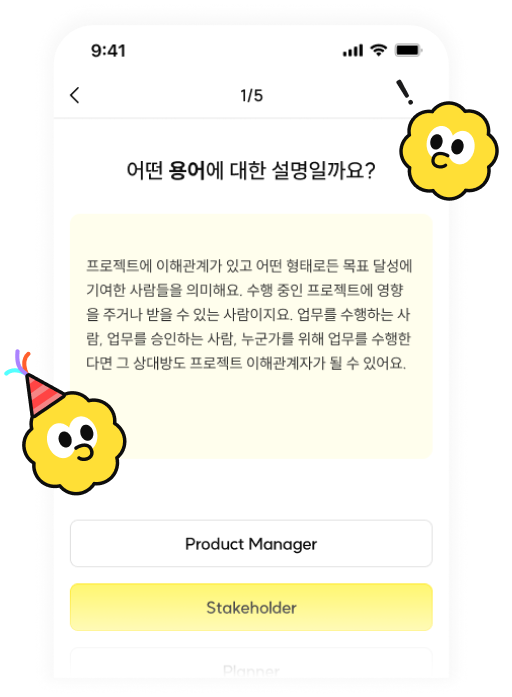
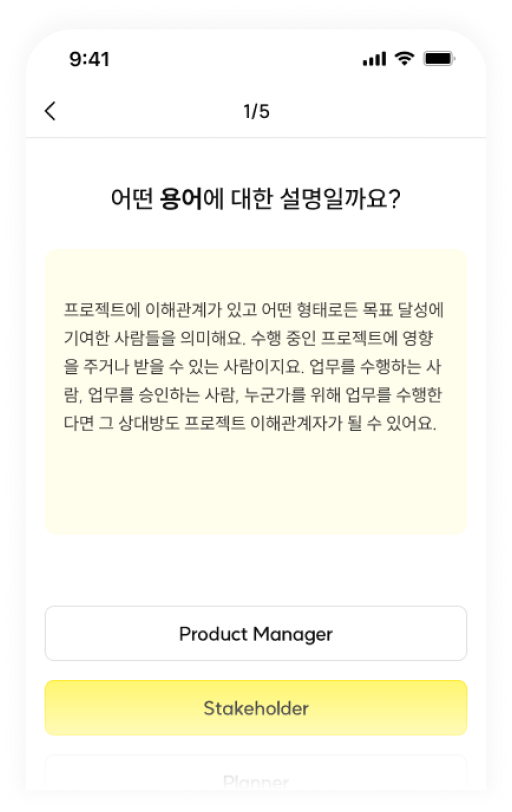
chore: walkthrough 수정

diff --git a/TERMTERM/src/components/terms/WalkthroughCarousel.tsx b/TERMTERM/src/components/terms/WalkthroughCarousel.tsx
@@ -1,4 +1,5 @@
 import { View, ViewProps, Text } from "react-native";
+import styled from "styled-components/native";
 import Animated, {
   Extrapolate,
   interpolate,
@@ -6,7 +7,7 @@ import Animated, {
   useSharedValue,
 } from "react-native-reanimated";
 import Carousel from "react-native-reanimated-carousel";
-import { screenWidth } from "@style/dimensions";
+import { screenWidth, screenHeight } from "@style/dimensions";
 import { WtProps } from "@interfaces/walkthrough";
 import { useThemeStyle } from "@hooks/useThemeStyle";
 import Walkthrough from "./Walkthrough";
@@ -26,17 +27,40 @@ const WalkthroughCarousel = ({ walkthrough, dots, ...props }: Props) => {
   const baseOptions = {
     vertical: false,
     width: screenWidth,
-    height: 650,
+    height: 700,
   } as const;
 
   return (
     <View
       style={{
-        alignItems: "center",
-        marginTop: 30,
+        alignItems: "center",  
       }}
       {...props}
     >
+      {dots && (
+        <View
+          style={{
+            flexDirection: "row",
+            justifyContent: "space-between",
+            width: 50,
+            marginTop: 30,
+            alignSelf: "center",
+          }}
+        >
+          {walkthrough.map((_, index) => {
+            return (
+              <PaginationItem
+                backgroundColor={COLOR.THEME.primary[130]}
+                animValue={progressValue}
+                index={index}
+                key={index}
+                isRotate={false}
+                length={walkthrough.length}
+              />
+            );
+          })}
+        </View>
+      )}
       <Carousel
         {...baseOptions}
         style={{
@@ -56,29 +80,6 @@ const WalkthroughCarousel = ({ walkthrough, dots, ...props }: Props) => {
         data={walkthrough}
         renderItem={({ index }) => <Walkthrough walkthrough={walkthrough[index]} />}
       />
-      {dots && (
-        <View
-          style={{
-            flexDirection: "row",
-            justifyContent: "space-between",
-            width: 100,
-            alignSelf: "center",
-          }}
-        >
-          {walkthrough.map((_, index) => {
-            return (
-              <PaginationItem
-                backgroundColor={COLOR.THEME.primary[130]}
-                animValue={progressValue}
-                index={index}
-                key={index}
-                isRotate={false}
-                length={walkthrough.length}
-              />
-            );
-          })}
-        </View>
-      )}
     </View>
   );
 };
@@ -121,7 +122,6 @@ const PaginationItem: React.FC<{
         backgroundColor: "#bdbdbd51",
         width,
         height: width,
-        marginTop: 100,
         borderRadius: 50,
         overflow: "hidden",
         transform: [

diff --git a/TERMTERM/src/components/terms/Walkthrough.tsx b/TERMTERM/src/components/terms/Walkthrough.tsx
@@ -1,9 +1,7 @@
 import React from "react";
 import styled from "styled-components/native";
 import { useEffect, useState } from "react";
-import { screenHeight, screenWidth } from "@style/dimensions";
-import { StackScreenProps } from "@react-navigation/stack";
-import { RootStackParamList } from "@interfaces/RootStackParamList";
+import { screenWidth } from "@style/dimensions";
 import { LIGHT_COLOR_STYLE, TEXT_STYLES } from "@style/designSystem";
 import AutoSizedImage from "@components/common/AutoSizedImage";
 import { WtProps } from "@interfaces/walkthrough";
@@ -13,21 +11,25 @@ interface Props {
 }
 
 const Walkthrough = ({ walkthrough }: Props) => {
-  const [width, setWidth] = useState(300);
+  const [width, setWidth] = useState(screenWidth - 90);
+  const [ratio, setRatio] = useState(3);
 
   /** 아이콘 너비 계산 함수 */
   const calcWidth = () => {
-    if (screenWidth < 390) return;
+    if (screenWidth < 380) return;
     if (screenWidth < 435) {
-      setWidth(340);
+      setRatio(10);
+      setWidth(350);
       return;
     }
     if (screenWidth < 500) {
-      setWidth(380);
+      setRatio(10);
+      setWidth(490);
       return;
     }
     if (screenWidth > 500) {
-      setWidth(420);
+      setRatio(10);
+      setWidth(430);
       return;
     }
   };
@@ -42,7 +44,7 @@ const Walkthrough = ({ walkthrough }: Props) => {
       <AutoSizedImage
         source={walkthrough.image}
         width={width}
-        style={{ marginTop: "8%" }}
+        style={{ marginTop: `${ratio}%` }}
       />
     </Wrapper>
   );
@@ -61,17 +63,16 @@ const Title = styled.Text`
   color: ${LIGHT_COLOR_STYLE.THEME.primary[130]};
   font-size: ${TEXT_STYLES.lg.Eb?.fontSize}px;
   font-weight: ${TEXT_STYLES.lg.Eb?.fontWeight};
-  margin-top: 30px;
 `;
 
 const SubText = styled.Text`
   color: ${LIGHT_COLOR_STYLE.Text.active};
-  font-size: 26px;
-  font-weight: 400;
+  font-size: ${TEXT_STYLES.lg.Eb?.fontSize}px;
+  font-weight: 500;
   color: ${LIGHT_COLOR_STYLE.Text.active};
   text-align: center;
-  margin: 30px 0;
-  line-height: 32px;
+  margin-top: 20px;
+  line-height: 35px;
 `;
 
 export default Walkthrough;

diff --git a/TERMTERM/src/screens/Walkthrough.tsx b/TERMTERM/src/screens/Walkthrough.tsx
@@ -60,7 +60,7 @@ const Walkthrough = ({ navigation }: Props) => {
           type={BUTTON_TYPE.primary}
           state={BUTTON_STATE.active}
           // TODO : Home으로 이동하도록 navigation 수정
-          onPress={() => navigation.push("Home")}
+          // onPress={() => navigation.push("Home")}
           style={{ width: "90%" }}
         />
         <CustomButton
@@ -92,7 +92,8 @@ const ButtonWrapper = styled.View`
   flex-direction: column;
   justify-content: center;
   align-items: center;
-  bottom: 10%;
+  bottom: 5%;
+  background-color: ${LIGHT_COLOR_STYLE.Background.surface};
 `;
 
 export default Walkthrough;
